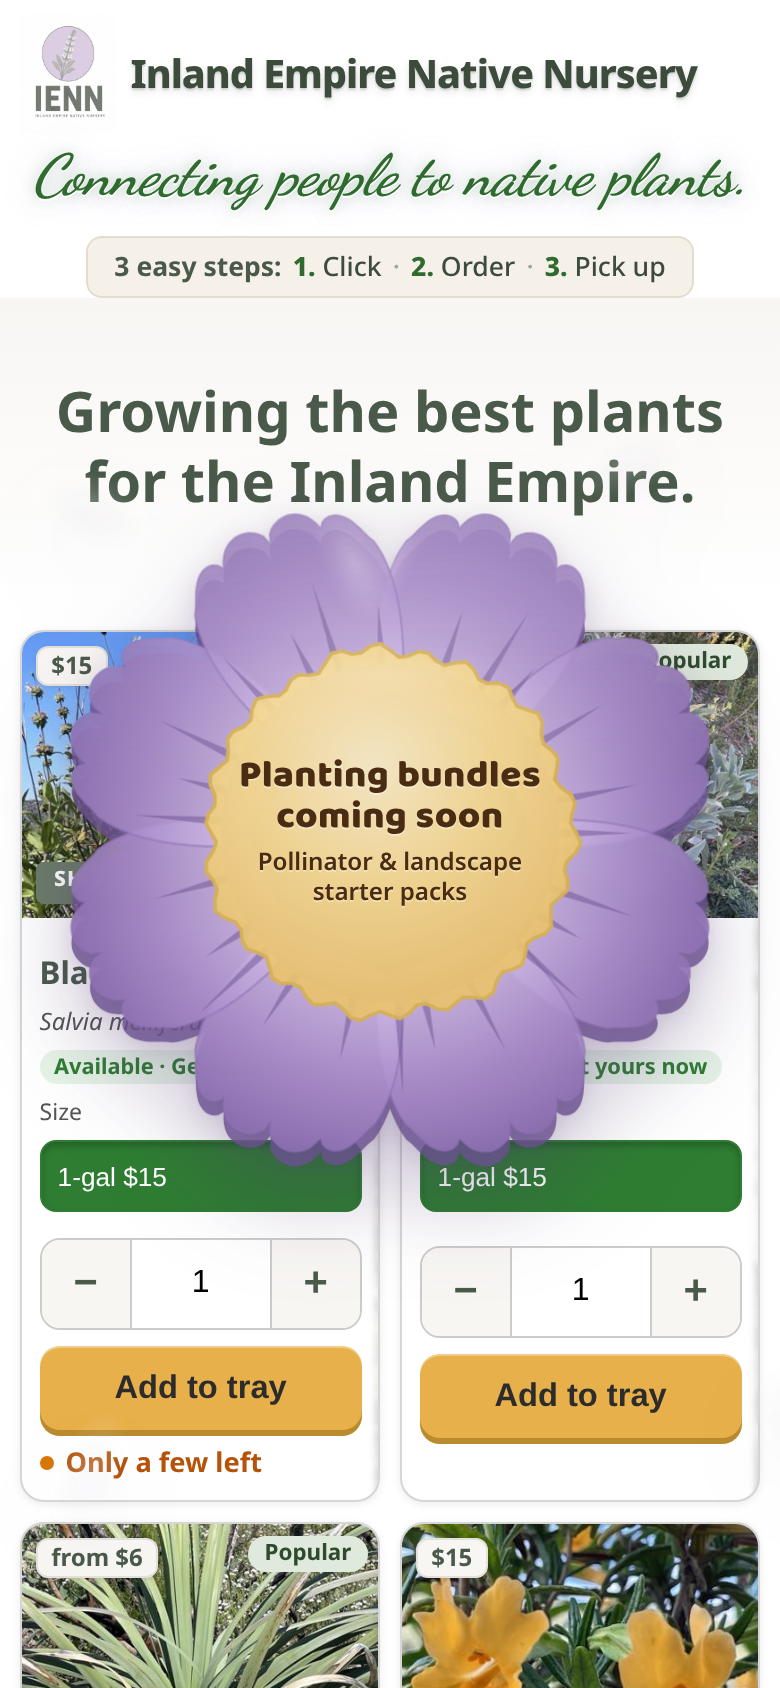
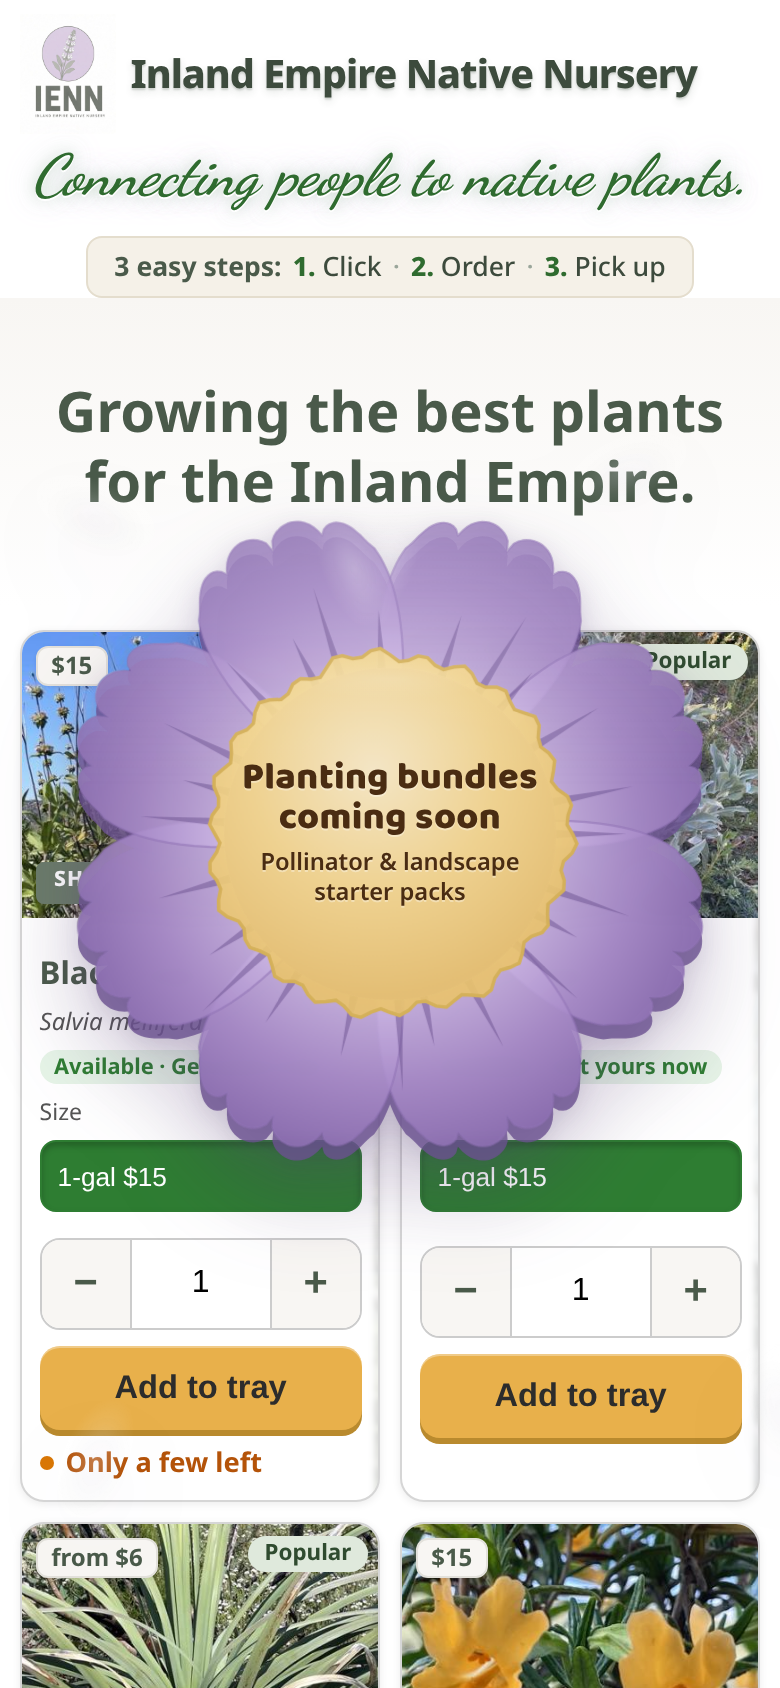
Aster: keep teardrop petals for the pop; solid lilac underlay keeps the disk clean behind the text

diff --git a/teaser.js b/teaser.js
@@ -36,11 +36,10 @@
     function f1(v) { return v.toFixed(1); }
     function poly(pts) { return "M " + pts.map(function (q) { return f1(q[0]) + "," + f1(q[1]); }).join(" L ") + " Z"; }
     for (k = 0; k < 8; k++) {
-      var c = k * Math.PI / 4 + Math.PI / 8, pts = [];
+      var c = k * Math.PI / 4 + Math.PI / 8, pts = [[0, 0]];
       for (i = 0; i <= 96; i++) {
         var u = -1 + 2 * i / 96, r = R * Math.pow(1 - Math.pow(Math.abs(u), 3.2), 0.42), v = u / 0.66;
         if (Math.abs(v) < 1) r -= 14 * (1 - Math.pow(Math.abs(Math.sin(Math.PI * 2 * (v + 1))), 0.45)) * (1 - Math.pow(Math.abs(v), 6));   // 4 scallops across the tip
-        r = Math.max(r, 92);   // petals start under the disk rim, so no petal lines show through the text
         var a = c + u * HW; pts.push([r * Math.sin(a), -r * Math.cos(a)]);
       }
       var D = 66 + 10 * ((k * 5) % 3), pop = "--px:" + f1(D * Math.sin(c)) + "px;--py:" + f1(-D * Math.cos(c)) + "px;--pr:" + (k % 2 ? 14 : -12) + "deg";   // pop: fly out along its own angle
@@ -54,7 +53,7 @@
     }
     var dp = [];
     for (i = 0; i < 120; i++) { var t = 2 * Math.PI * i / 120, rr = 112 + 3.2 * Math.sin(26 * t) + 1.6 * Math.sin(7 * t + 1) + 1.2 * Math.sin(11 * t + 2.2); dp.push([rr * Math.cos(t), rr * Math.sin(t)]); }
-    parts.push(["under", "0,0,104"]);   // even lilac under the disk, so nothing (petal seams, page) shows through behind the text
+    parts.push(["under", "0,0,104"]);   // solid lilac under the disk, so petal seams never show through behind the text
     parts.push(["disk", poly(dp)]);
     parts.push(["dome", "0,-97,66,13,0"]);   // very faint top-edge glow on the disk, clear of the text
     return { parts: parts, text: [-102, -80, 204, 160], vb: [-213, -213, 426, 438], w: 340, juicy: true, frost: true };

diff --git a/index.html b/index.html
@@ -192,7 +192,7 @@
     .st-shape-aster .st-sub { font-size:0.74rem; font-weight:600; }
     /* Aster: toned-down whites (Eric): faint sheens, faint top-edge glow on the disk, and the shared top gloss kept off the text. */
     .st-shape-aster .fl-dome { opacity:.45; }
-    .st-shape-aster .fl-under { fill:var(--st-mid); fill-opacity:.88; }
+    .st-shape-aster .fl-under { fill:var(--st-mid); }
     .st-juicy.pop .k-under { opacity:0; transition:opacity .12s linear; }
     .st-shape-aster .st-face > rect { opacity:.3; }
     /* Pop on dismiss (tap/click/Escape): squish ~90ms, then petals fly out + spin + shrink, disk swells 1.15 and fades, confetti drifts out. ~550ms. */
